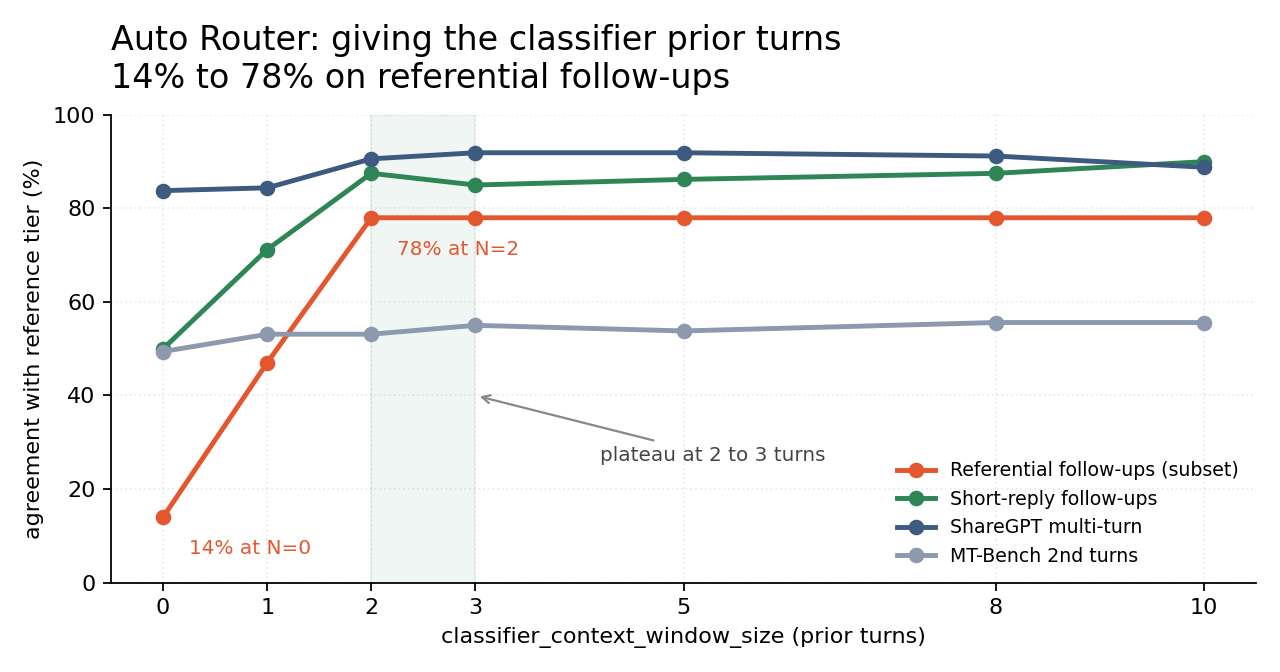
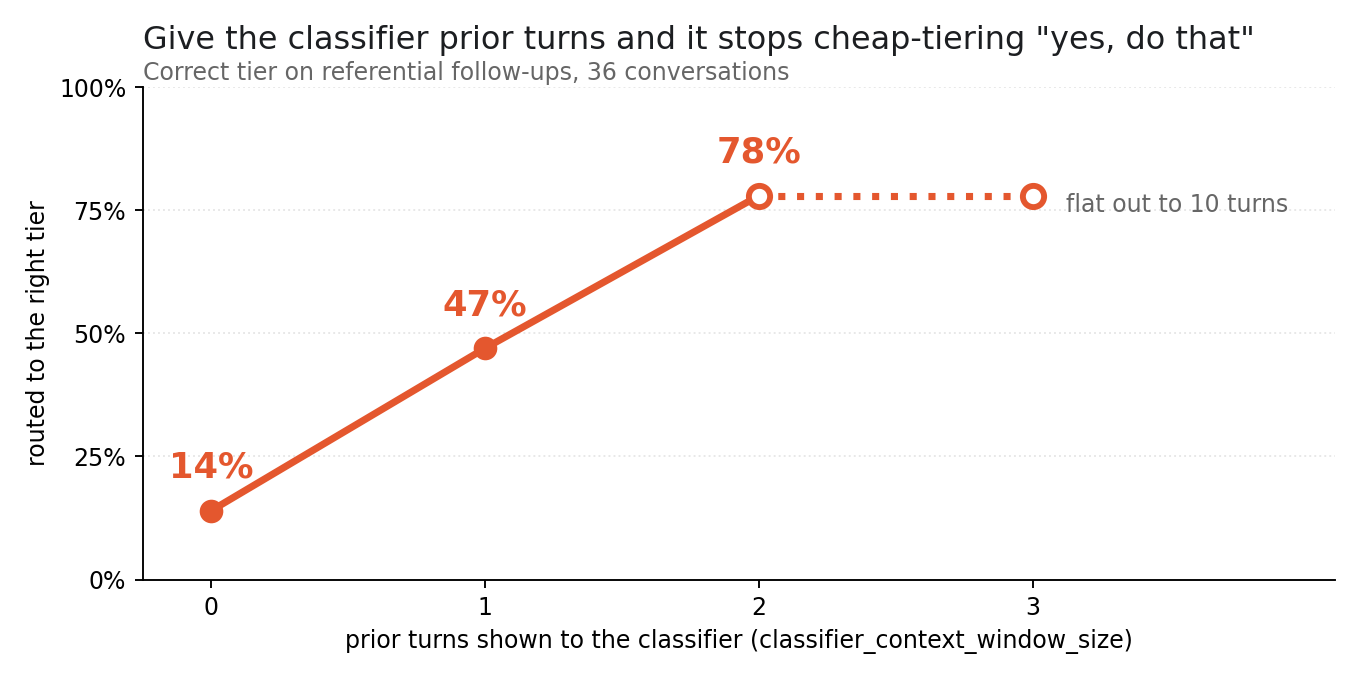
blog(autorouter): real benchmarks screenshot, v1.97, clearer hero chart

diff --git a/blog/autorouter_context_and_benchmarks/index.md b/blog/autorouter_context_and_benchmarks/index.md
@@ -11,7 +11,7 @@ tags: [routing, complexity-router, cost, benchmarks, observability, product]
 hide_table_of_contents: false
 ---
 
-![Classifier agreement against context window size, 14% to 78% on referential follow-ups](./hero.png)
+![Correct tier on referential follow-ups rising from 14% with no prior turns to 78% with two](./hero.png)
 
 "Yes, do that."
 
@@ -19,7 +19,7 @@ Your router sees a short, simple message and sends it to the cheap tier, where i
 
 We measured how often this happens, across 5,600 live classifier calls. On follow-ups that only make sense against their history, the router picked the right tier **14% of the time**. Give the classifier three prior turns and that goes to **78%**, 5.6x more accurate, for under a tenth of a cent per request and no measurable latency.
 
-That fix ships in v1.96.x, along with cost and usage benchmarks for the auto router, so you can see what routing saved you instead of guessing, and with savings now rolling into the Cost Optimization totals. Session affinity also flips off by default, because our caching data says it was costing you routing quality to buy a cache hit you would get anyway.
+That fix ships in v1.97, along with cost and usage benchmarks for the auto router, so you can see what routing saved you instead of guessing, and with savings now rolling into the Cost Optimization totals. Session affinity also flips off by default, because our caching data says it was costing you routing quality to buy a cache hit you would get anyway.
 
 :::warning Two defaults changed
 
@@ -31,19 +31,17 @@ That fix ships in v1.96.x, along with cost and usage benchmarks for the auto rou
 
 ## Cost and usage benchmarks
 
-Auto routing has a measurement problem: the counterfactual is invisible. You know what you spent. You don't know what the same traffic would have cost on a single frontier model, which is the only number that tells you whether routing is working. The new **Benchmarks** view computes it for you.
+Auto routing has a measurement problem: the counterfactual is invisible. You know what you spent. You don't know what the same traffic would have cost on a single frontier model, which is the only number that tells you whether routing is working. The new **Auto-Router Benchmarks** view computes it for you.
 
-![Auto Router Benchmarks tab](./benchmarks-overview.png)
+![Auto-Router Benchmarks tab showing total estimated savings against an all-frontier baseline, session counts, and per-router prompt cache behaviour](./benchmarks-overview.png)
 
-Per router and per time range, it reports spend by tier so you can see where the money goes, the tier mix as a percentage of requests so you can check whether the classifier is sending traffic where you expected, and token usage by tier including the prompt, completion, and cache-read split. Against that it puts a baseline cost for the same traffic on one frontier model, and the resulting savings in both absolute and percentage terms over the window you pick.
+Per router and per time range, it prices your routed traffic against the same traffic sent to one frontier model at list prices, and reports the gap in dollars and percent alongside the session economics behind it: sessions on the router, turns per session, tokens per session, and savings per session. The baseline is priced with a warm single-model cache rather than a cold-priced strawman, so a router that thrashes the prompt cache can show a loss. That is a real cost, and you should be able to see it.
 
-It also breaks out classifier overhead. The LLM classifier is a real API call on the hot path, and until now its cost was mixed into everything else; it is a line item now.
-
-![Tier mix and spend by tier](./benchmarks-tier-mix.png)
+Below that, prompt cache behaviour is broken out per router rather than blended, because tier ladders differ and an average would hide which router is paying for cold writes. Turns land in exactly one of three buckets, staying on the same model, visiting a tier for the first time, or returning to a tier it used before, and only the last of those is a cache miss routing could have avoided. The view also estimates what a background cache warmer would be worth on your traffic, netting rescued cache writes against the cost of the replays.
 
 ### Savings roll up into Cost Optimization
 
-Router savings used to live only in the router's own view. They now feed the **Cost Optimization** section alongside prompt compression and prompt caching, as their own card, savings line, and slice of the by-driver breakdown, so the top-line number covers everything rather than a subset. Auto-router savings are measured against the priciest model the router could have picked.
+Router savings used to live only in the router's own view. They now feed the **Cost Optimization** section alongside prompt compression and prompt caching, as their own card, savings line, and slice of the by-driver breakdown, so the top-line number covers everything rather than a subset. Auto-router savings there are measured against the priciest model the router could have picked.
 
 ![Cost Optimization usage tab showing total saved split across compression, prompt caching, and auto-router savings](./cost-optimization.png)
 
